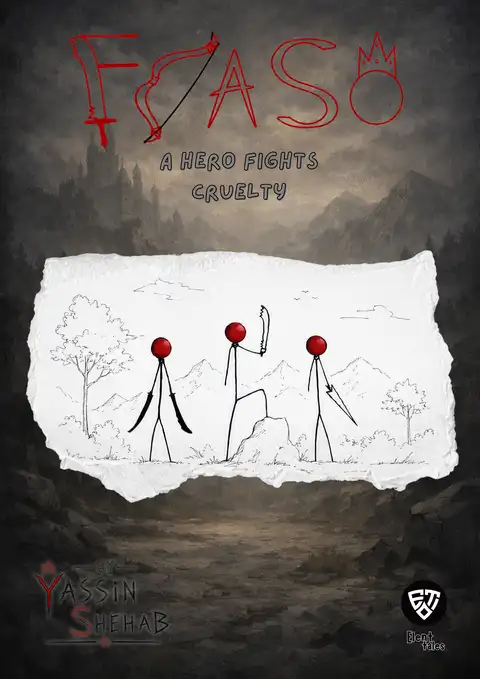
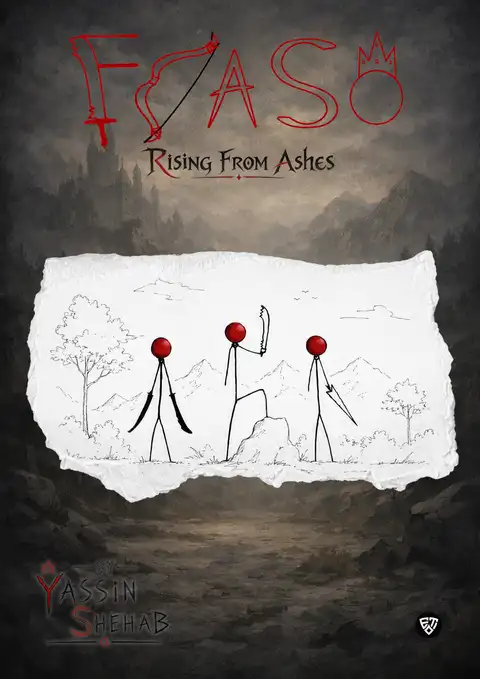
Swap in the new Fraso cover (Rising From Ashes) everywhere
- Regenerate the hero cover (JPG/WebP) and blurred backdrop from the new
  master; 'front cover.png' is now the new artwork.
- The new cover's subtitle is 'Rising From Ashes' (was 'A Hero Fights
  Cruelty'), so update the FAQ answer, JSON-LD alternateName and the
  <noscript> fallback to match what the cover actually says.
- Add a cover version to the og:image / twitter:image URLs (?v=2) so
  WhatsApp/Facebook/X fetch the new image instead of a cached old one.
- Ignore the superseded 'oldfront cover.png' so it isn't committed.

Changed region(s): [[0.3125, 0.2165, 0.7188, 0.3093], [0.8125, 0.8351, 0.9375, 0.9588]]

diff --git a/index.html b/index.html
@@ -27,7 +27,7 @@
     <meta property="og:url" content="__CANONICAL_URL__" />
     <meta property="og:title" content="__SITE_TITLE__" />
     <meta property="og:description" content="A dark fantasy story by Yassin Shehab, Elent Tales. Follow Fraso's progress from first idea to finished book — __OVERALL_PERCENT__% complete." />
-    <meta property="og:image" content="__COVER_IMAGE_URL__" />
+    <meta property="og:image" content="__OG_IMAGE_URL__" />
     <meta property="og:image:width" content="__COVER_IMAGE_WIDTH__" />
     <meta property="og:image:height" content="__COVER_IMAGE_HEIGHT__" />
     <meta property="og:image:alt" content="__COVER_IMAGE_ALT__" />
@@ -38,7 +38,7 @@
     <meta name="twitter:card" content="summary_large_image" />
     <meta name="twitter:title" content="__SITE_TITLE__" />
     <meta name="twitter:description" content="A dark fantasy story by Yassin Shehab, Elent Tales. Follow Fraso's progress from first idea to finished book — __OVERALL_PERCENT__% complete." />
-    <meta name="twitter:image" content="__COVER_IMAGE_URL__" />
+    <meta name="twitter:image" content="__OG_IMAGE_URL__" />
     <meta name="twitter:image:alt" content="__COVER_IMAGE_ALT__" />
 
     <!-- Structured data: the Fraso entity graph (story, author, publisher,
@@ -73,7 +73,7 @@
       <main style="max-width: 640px; margin: 0 auto; padding: 48px 24px; font-family: Georgia, serif; color: #ece2c8; background: #100d0b;">
         <h1>Fraso</h1>
         <p>
-          Fraso is an original dark fantasy story &mdash; &ldquo;A Hero Fights Cruelty&rdquo;
+          Fraso is an original dark fantasy story &mdash; &ldquo;Rising From Ashes&rdquo;
           &mdash; created by Yassin Shehab and published under Elent Tales.
         </p>
         <img

diff --git a/src/data/seo.js b/src/data/seo.js
@@ -43,6 +43,11 @@ export const seo = {
     webpUrl: `${canonicalUrl}fraso-story-cover.webp`,
     width: 1414,
     height: 2000,
+    // Bump this whenever the cover artwork changes. It's appended to the
+    // og:image / twitter:image URLs only (not JSON-LD or the sitemap), so
+    // WhatsApp/Facebook/X see a brand-new image URL and don't keep serving
+    // a cached copy of the previous cover in link previews.
+    version: '2',
     // Human-first alt text: what the image actually is, for anyone using
     // a screen reader, plus the same context a search engine needs.
     alt: 'Fraso story cover art by Yassin Shehab, published under Elent Tales',
@@ -75,7 +80,7 @@ export const faq = [
   {
     question: 'What is Fraso?',
     answer:
-      "Fraso is an original dark fantasy story — \"A Hero Fights Cruelty\" — created by Yassin Shehab and published under Elent Tales.",
+      "Fraso is an original dark fantasy story — \"Rising From Ashes\" — created by Yassin Shehab and published under Elent Tales.",
   },
   {
     question: 'Who created Fraso?',
@@ -197,7 +202,7 @@ export function buildJsonLd() {
       '@type': 'Book',
       '@id': workId,
       name: 'Fraso',
-      alternateName: 'Fraso — A Hero Fights Cruelty',
+      alternateName: 'Fraso — Rising From Ashes',
       author: { '@id': personId },
       creator: { '@id': personId },
       publisher: { '@id': orgId },

diff --git a/vite.config.js b/vite.config.js
@@ -34,6 +34,7 @@ function injectSeoMeta() {
         __SITE_DESCRIPTION__: seo.description,
         __CANONICAL_URL__: canonicalUrl,
         __COVER_IMAGE_URL__: seo.coverImage.url,
+        __OG_IMAGE_URL__: `${seo.coverImage.url}?v=${seo.coverImage.version}`,
         __COVER_IMAGE_WIDTH__: String(seo.coverImage.width),
         __COVER_IMAGE_HEIGHT__: String(seo.coverImage.height),
         __COVER_IMAGE_ALT__: seo.coverImage.alt,
